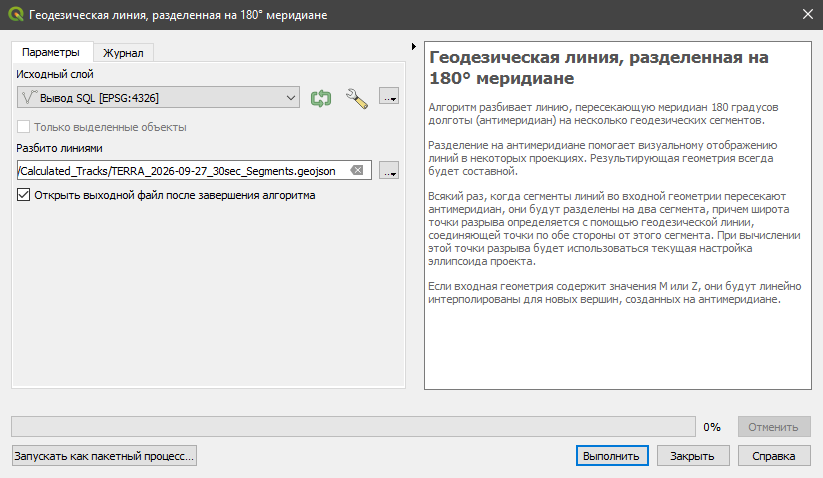
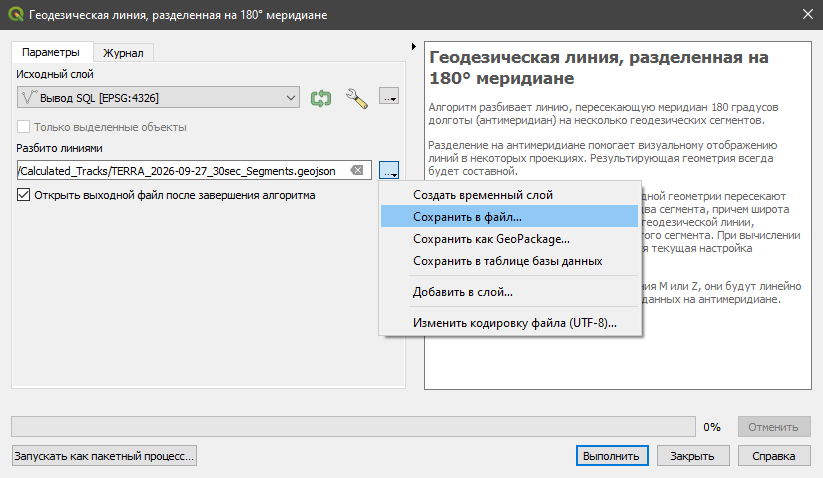
Исправления на 05.11.2026 - 00:558

Changed region(s): [[0.4557, 0.3808, 0.7898, 0.7322], [0.4557, 0.3515, 0.486, 0.3808]]

diff --git a/index.md b/index.md
@@ -437,7 +437,7 @@ python -c "import spacetrack, pyorbital; print('OK')"
 **Регистрируйтесь заблаговременно** — подтверждение регистрации может прийти не сразу.
 
 **Обязательно сохраните ваши учетные данные** — логин *(email, указанный при регистрации)* и&nbsp;пароль, 
-например в отдельном текстовом файле: они понадобятся вам для последующего доступа&nbsp;к Space&#8209;Track.
+например в отдельном текстовом файле: они понадобятся вам для последующего доступа&nbsp;к&nbsp;Space&#8209;Track.
 
 После получения доступа впишите ваши логин и пароль от Space&#8209;Track в скрипт. \
 Для этого найдите на компьютере через меню «Пуск» программу-редактор **IDLE** 
@@ -721,12 +721,19 @@ GROUP BY Segment_ID
 Воспользовавшись поиском, имеющимся в панели «Инструменты&nbsp;анализа», найдите алгоритм «Геодезическая линия, разделенная на 180°&nbsp;меридиане» 
 *(он находится в группе «Инструменты обработки геометрии векторных объектов»)* и откройте его диалоговое окно.
 
-Укажите путь к папке «Calculated_Tracks» для сохранения файла. Выберите формат **GeoJSON** *(именно обычный* `*.geojson`*)* 
-и назовите файл по имени слоя соответствующей орбиты, добавив в&nbsp;конце «**_Segments**» 
-*(в моем примере это «TERRA_2026-09-27_30sec_Segments.geojson»)*.
+Справа от поля «**Разбито&nbsp;линиями**» нажмите кнопку «**...**» и выберите в раскрывшемся меню пункт&nbsp;«**Сохранить&nbsp;в&nbsp;файл...**»:
 
 <img src="media/Алгоритм_Разделение_линии_на_180_меридиане.png" alt="Нет фото" style="width: ; border: 1px solid #606c71;">
+
+В открывшемся окне «Сохранить&nbsp;файл»:
+
+1. Перейдите в папку «Calculated_Tracks».
+2. В поле «**Имя&nbsp;файла**» укажите имя исходного точечного слоя соответствующей орбиты, добавив к&nbsp;нему в&nbsp;конце «**_Segments**» \
+*(в&nbsp;моем примере это «TERRA_2026-09-27_30sec_Segments.geojson»)*.
+3. В поле «**Тип&nbsp;файла**» выберите значение <span style="white-space: nowrap"><code>GEOJSON файлов</code></span> *(именно обычный* `*.geojson`*, а&nbsp;не&nbsp;*`*.geojsonl` *или* `*.geojsons`*)*.
+4. Нажмите кнопку «**Сохранить**».
 <br><br>
+
 > #### *Как работает этот алгоритм:*
 > *Алгоритм находит все отрезки трассы, пересекающие антимеридиан, и разрезает каждый из них на две части точно по меридиану 180°. 
 > Место разреза он вычисляет по **геодезической** линии — кратчайшему пути между концами отрезка по поверхности Земли, — то есть там, где КА на самом деле пересек антимеридиан. \
